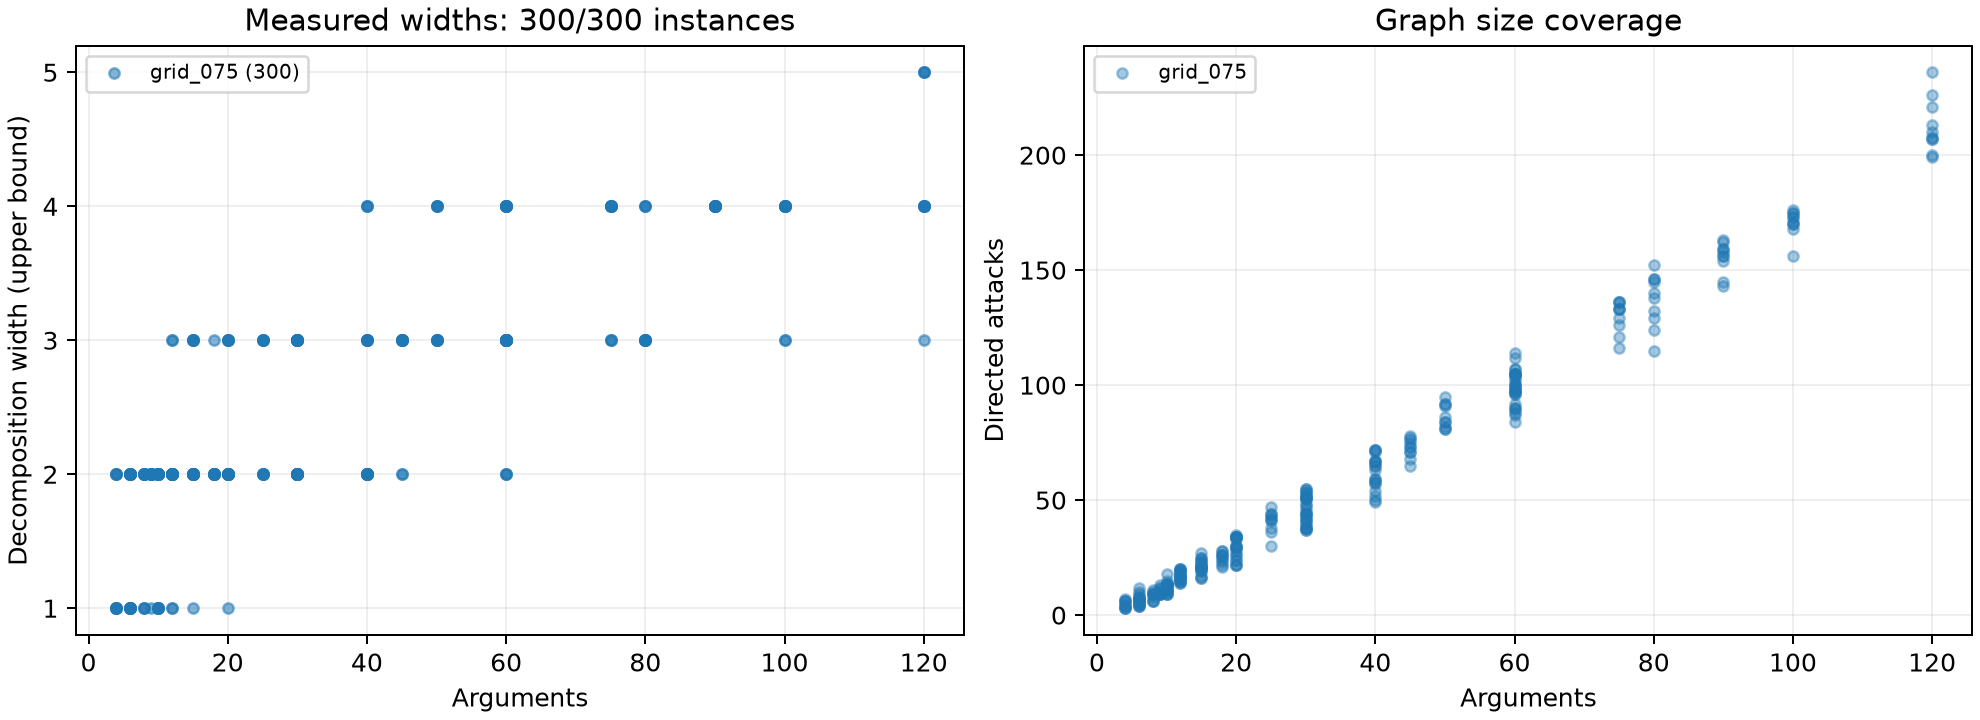
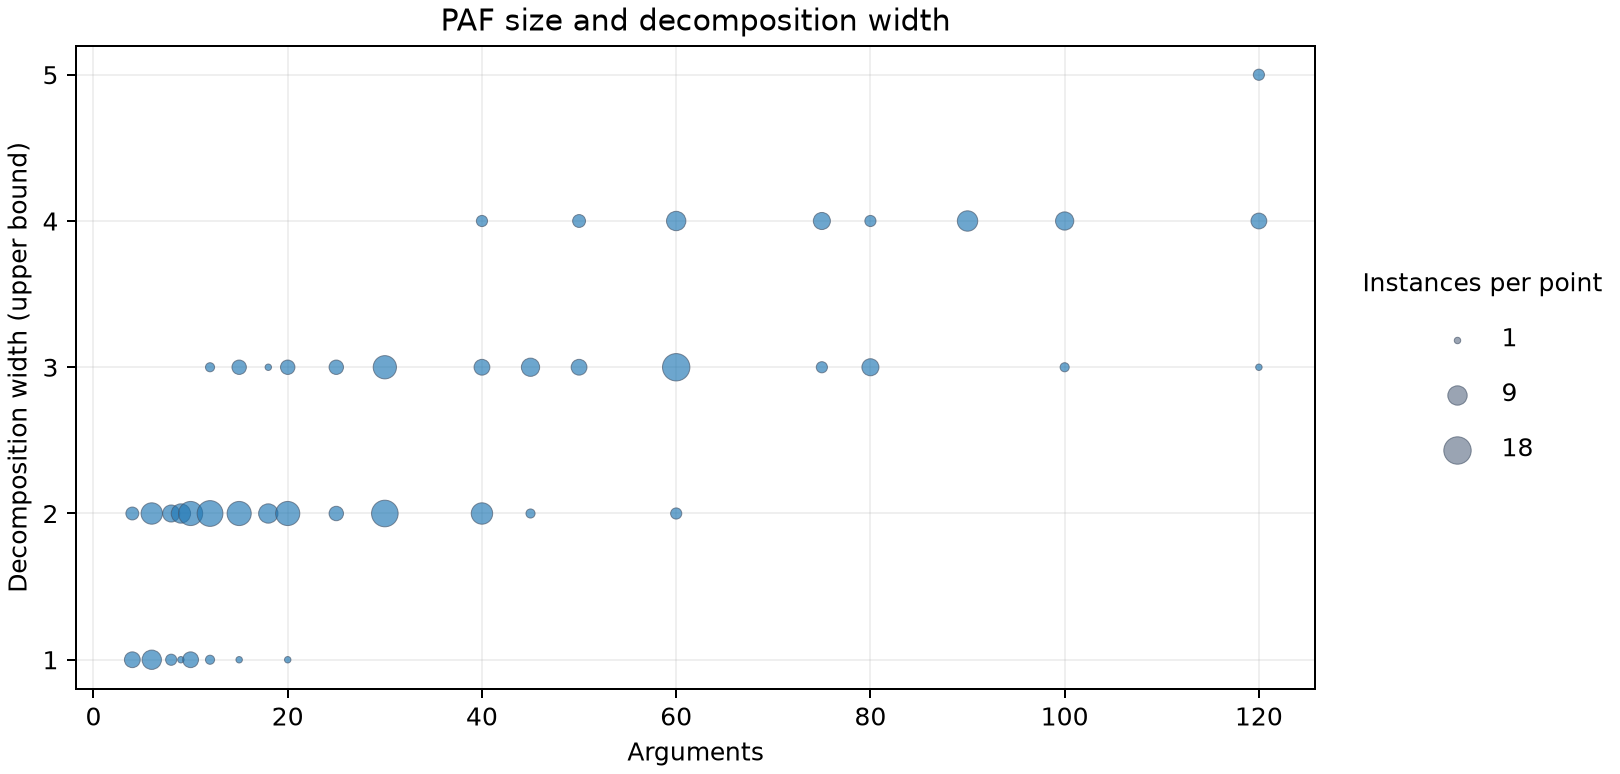
up

diff --git a/datasets/paf-pw24-pilot-v1/README.md b/datasets/paf-pw24-pilot-v1/README.md
@@ -21,26 +21,32 @@ for the commands and the [measured summary](analysis/htd-v1/analysis_summary.md)
 for graph statistics and decomposition widths.
 
 <!-- probarg-report:start -->
-## Families and generator parameters
+## Generator parameters
 
-| Family | Grid-edge probability | k | n | Replicates | Instances | Master seed |
-| --- | --- | --- | --- | --- | --- | --- |
-| grid_075 | 75% | 2, 3, 4, 5, 6 | 2, 3, 5, 10, 15, 20 | 10 | 300 | 20261105 |
+| k | n | Replicates | Grid connection probability |
+| --- | --- | --- | --- |
+| 2, 3, 4, 5, 6 | 2, 3, 5, 10, 15, 20 | 10 | 75% |
 
-- `grid_075`: generator `PW24-original-dense-v1`; candidate inclusion probability 0.04; sampling weight of probability one 0.1 (each value 0.1–0.9 has weight 10).
+Each PAF has `k × n` arguments; replicates are instances per `(k, n)` pair.
+A grid connection means at least one attack between neighbouring vertices.
 
-## Structural coverage
+## Dataset summary
 
-| Family | Instances | Analyzed | Arguments | Directed attacks | Weak components | Decomposition width | Valid widths | Other statuses |
-| --- | --- | --- | --- | --- | --- | --- | --- | --- |
-| grid_075 | 300 | 300 | 4–120 | 3–236 | 1–7 | 1–5 | 300 | none |
+| Instances | Arguments | Attacks | Candidate size | Width upper bound |
+| --- | --- | --- | --- | --- |
+| 300 | 4–120 | 3–236 | 0–8 | 1–5 |
 
-Graph: the underlying undirected graph of declared attacks, with reciprocal attacks collapsed and self-attacks omitted for width computation.
-Widths are validated decomposition upper bounds on treewidth. Ranges describe the analyzed rows; instances outside a partial analysis have no measurements in this report.
+Attacks are directed. Widths are validated upper bounds on treewidth of the undirected attack graph.
 
-![PAF size and width coverage](analysis/htd-v1/analysis_coverage.png)
+All 300 instances analysed successfully.
 
-Sources: [family parameters](families_parameters.tsv), [per-instance measurements](analysis/htd-v1/analysis_instances.tsv), [measurement configuration](analysis/htd-v1/analysis_settings.json).
+Empty candidate sets: 114/300 (38%).
+
+![PAF size and width distribution](analysis/htd-v1/analysis_coverage.png)
+
+Circle area represents the number of instances at each size and width.
+
+Details: [generator settings](families_parameters.tsv) · [measurements](analysis/htd-v1/analysis_instances.tsv) · [analysis settings](analysis/htd-v1/analysis_settings.json).
 <!-- probarg-report:end -->
 
 ## License

diff --git a/datasets/paf-pw24-pilot-v1/analysis/htd-v1/analysis_report.md b/datasets/paf-pw24-pilot-v1/analysis/htd-v1/analysis_report.md
@@ -1,22 +1,28 @@
 # Dataset report
 
-## Families and generator parameters
+## Generator parameters
 
-| Family | Grid-edge probability | k | n | Replicates | Instances | Master seed |
-| --- | --- | --- | --- | --- | --- | --- |
-| grid_075 | 75% | 2, 3, 4, 5, 6 | 2, 3, 5, 10, 15, 20 | 10 | 300 | 20261105 |
+| k | n | Replicates | Grid connection probability |
+| --- | --- | --- | --- |
+| 2, 3, 4, 5, 6 | 2, 3, 5, 10, 15, 20 | 10 | 75% |
 
-- `grid_075`: generator `PW24-original-dense-v1`; candidate inclusion probability 0.04; sampling weight of probability one 0.1 (each value 0.1–0.9 has weight 10).
+Each PAF has `k × n` arguments; replicates are instances per `(k, n)` pair.
+A grid connection means at least one attack between neighbouring vertices.
 
-## Structural coverage
+## Dataset summary
 
-| Family | Instances | Analyzed | Arguments | Directed attacks | Weak components | Decomposition width | Valid widths | Other statuses |
-| --- | --- | --- | --- | --- | --- | --- | --- | --- |
-| grid_075 | 300 | 300 | 4–120 | 3–236 | 1–7 | 1–5 | 300 | none |
+| Instances | Arguments | Attacks | Candidate size | Width upper bound |
+| --- | --- | --- | --- | --- |
+| 300 | 4–120 | 3–236 | 0–8 | 1–5 |
 
-Graph: the underlying undirected graph of declared attacks, with reciprocal attacks collapsed and self-attacks omitted for width computation.
-Widths are validated decomposition upper bounds on treewidth. Ranges describe the analyzed rows; instances outside a partial analysis have no measurements in this report.
+Attacks are directed. Widths are validated upper bounds on treewidth of the undirected attack graph.
 
-![PAF size and width coverage](analysis_coverage.png)
+All 300 instances analysed successfully.
 
-Sources: [family parameters](../../families_parameters.tsv), [per-instance measurements](analysis_instances.tsv), [measurement configuration](analysis_settings.json).
+Empty candidate sets: 114/300 (38%).
+
+![PAF size and width distribution](analysis_coverage.png)
+
+Circle area represents the number of instances at each size and width.
+
+Details: [generator settings](../../families_parameters.tsv) · [measurements](analysis_instances.tsv) · [analysis settings](analysis_settings.json).
